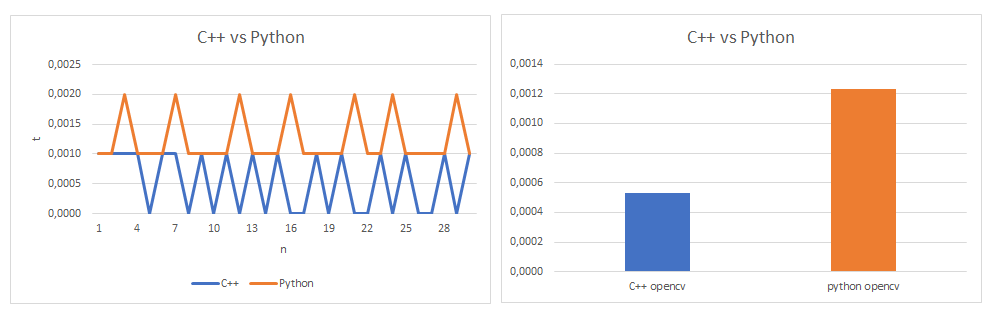
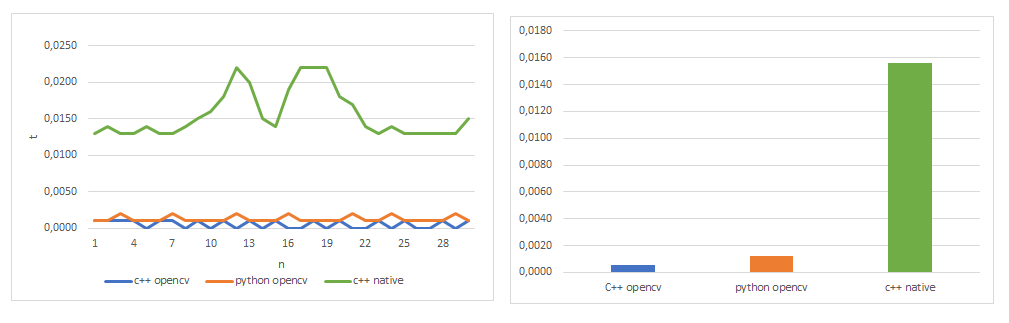
Add files via upload

diff --git a/c++_native.cpp b/c++_native.cpp
@@ -14,13 +14,30 @@ using namespace cv;
 using namespace std;
 
 
+void neighbors_update(Mat& array, int radius, int row_index, int column_index){
+
+    Vec3b pixelColor(255, 255, 255);
+
+    for (int j = column_index - radius; j < column_index + 1 + radius; j++) {
+        for (int i = row_index - radius; i < row_index + 1 + radius; i++) {
+            if (i >= 0 && i < array.rows && j >= 0 and j < array.cols) {
+                array.at<uchar>(i, j) = 255;
+            }
+        }
+    }
+}
+
+
+
 int main()
 {
+
     unsigned int start;
     unsigned int end;
     vector <float> test;
     ofstream excel;
     bool flag = true;
+
 
     Mat img_gray;
     Mat img_bin;
@@ -29,14 +46,27 @@ int main()
     Mat img = imread("space.jpg");
     cvtColor(img, img_gray, COLOR_BGR2GRAY);
     threshold(img_gray, img_bin, 127, 255, THRESH_BINARY);
-    
+
+
+
+
+
+
     for (int i = 0; i < 30; i++) {
         start = clock();
-        dilate(img_bin, img_dilate, Mat());
+
+        img_dilate = img_bin.clone();
+                      
+        for (int x = 0; x < img_bin.rows; x++) {
+            for (int y = 0; y < img_bin.cols; y++) {
+                if (img_bin.at<uchar>(x, y)==255) {
+                    neighbors_update(img_dilate, 1, x, y);
+                }
+            }
+        }
         end = clock();
         test.push_back((float)(end - start) / 1000);
     }
-
 
 
     while (1){
@@ -59,7 +89,6 @@ int main()
     }
 
     destroyAllWindows();
-
 
     excel.open("test.xls", fstream::app);
 

diff --git a/README.md b/README.md
@@ -9,14 +9,14 @@
 Дилатация (морфологическое "расширение" или "наращивание") – это операция определения локального максимума по некоторой окрестности, которая задается структурообразующим элементом (ядро, kernel). Обычно дилатация применяется к бинарным изображениям, но есть версии, которые работают с изображениями в градациях серого. Ядро может иметь произвольную форму и размер [1, 2]. При этом в ядре выделяется единственная ведущая позиция (anchor), которая совмещается с текущим пикселем при вычислении свертки. 
 <figure>
   <p><img src="img_for_readme/anchor.png"></p>
-  <figcaption><i>Как меняется дилатация при разном параметре anchor в ядре 2х2</i></figcaption>
+  <figcaption align="center"><i>Как меняется дилатация при разном параметре anchor в ядре 2х2</i></figcaption>
 </figure><br><br>
 
 Во многих случаях в качестве ядра выбирается  квадрат или круг с ведущей позицией в центре, которая делит ядро на две симметричные части (однако, как было сказано выше, форма у ядра может быть абсолютно любой и необязательно симметричной). Квадрат 3 × 3, вероятно, является наиболее распространенным структурирующим элементом, используемым в операциях расширения. Более крупный структурирующий элемент производит более выраженный эффект расширения, хотя обычно очень похожие эффекты могут быть достигнуты повторными расширениями с использованием меньшего структурирующего элемента аналогичной формы. С более крупными структурными элементами довольно часто используют структурирующий элемент дисковой формы, а не квадратной. 
 
 <figure>
   <p><img src="img_for_readme/kernel.png"></p>
-  <figcaption><i>Дилатация с разным размером ядра в форме квадрата (3х3, 5х5, 7х7)</i></figcaption>
+  <figcaption align="center"><i>Дилатация с разным размером ядра в форме квадрата (3х3, 5х5, 7х7)</i></figcaption>
 </figure><br><br>
 
 Ядро можно рассматривать как шаблон или маску. Применение дилатации сводится к проходу шаблоном по всему изображению и применению оператора поиска локального максимума к интенсивностям пикселей изображения, которые, в дальнейшем, накрываются шаблоном. Основной эффект дилатаии на бинарном изображении заключается в постепенном увеличении границ областей пикселей переднего плана ( т. е., как правило, белых пикселей). Таким образом, области пикселей переднего плана увеличиваются в размерах, а отверстия в этих областях становятся меньше. Такая операция вызывает рост светлых областей на изображении и тем самым способствует объединению областей изображения, которые были разделены шумом и пр. Есть много специальных применений для дилатации. Например, его можно использовать для заполнения небольших ложных дыр ( "перцового шума" ) в изображениях. 
@@ -36,8 +36,8 @@ img = cv2.imread('space.jpg')
 ```
 В качестве изображения используем снимок космоса со спутника.
 <figure>
-  <p><img src="img_for_readme/original.png"></p>
-  <figcaption><i>Исходное изображение</i></figcaption>
+  <p align="center"><img src="img_for_readme/original.png"></p>
+  <figcaption align="center"><i>Исходное изображение</i></figcaption>
 </figure><br><br>
 
 <b>Преобразование изображения в градиции серого</b>
@@ -45,8 +45,8 @@ img = cv2.imread('space.jpg')
 img_gray = cv2.cvtColor(img, cv2.COLOR_BGR2GRAY)
 ```
 <figure>
-  <p><img src="img_for_readme/gray.png"></p>
-  <figcaption><i>Изображение в градациях серого</i></figcaption>
+  <p align="center"><img src="img_for_readme/gray.png"></p>
+  <figcaption align="center"><i>Изображение в градациях серого</i></figcaption>
 </figure><br><br>
 
 <b>Бинаризация изображения</b> 
@@ -54,8 +54,8 @@ img_gray = cv2.cvtColor(img, cv2.COLOR_BGR2GRAY)
  ret,img_bin = cv2.threshold(img_gray,127,255,cv2.THRESH_BINARY)
 ```
 <figure>
-  <p><img src="img_for_readme/binarization.png"></p>
-  <figcaption><i>Изображение после бинаризации</i></figcaption>
+  <p align="center"><img src="img_for_readme/binarization.png"></p>
+  <figcaption align="center"><i>Изображение после бинаризации</i></figcaption>
 </figure><br><br>
 
 <b>Дилатация изображения</b>
@@ -64,8 +64,8 @@ img_dilation3 = cv2.dilate(img_bin, np.ones((3, 3), np.uint8), iterations=1)
 ```
 Для дилатации используем ядро в виде квадрата размером 3х3, количество итераций – 1.
 <figure>
-  <p><img src="img_for_readme/dilatation.png"></p>
-  <figcaption><i>Изображение после дилатации</i></figcaption>
+  <p align="center"><img src="img_for_readme/dilatation.png"></p>
+  <figcaption align="center"><i>Изображение после дилатации</i></figcaption>
 </figure><br><br>
 
 <b>Вывод изобржения</b> 
@@ -75,33 +75,33 @@ cv2.imshow('Dilatation kernel = (3,3)', cv2.resize (img_dilation3, dsize = (300,
  Выводим на экран изображение с помощью встроенной функции opencv, дополнительно уменьшаем изобжение.
 
 <figure>
-  <p><img src="img_for_readme/output.png"></p>
-  <figcaption><i>Вывод обработанного изображения</i></figcaption>
+  <p align="center"><img src="img_for_readme/output.png"></p>
+  <figcaption align="center"><i>Вывод обработанного изображения</i></figcaption>
 </figure><br><br>
 
 <h4>Результаты работы и сравнения системы</h4>
 
-Проведём дилатацию в трёх вариантах: Python openCV, Python native, C++ openCV. В каждом из вариантов мы проведём по 30 тестов и выясним среднее время выполнения дилатации.
-Ниже приведены графики отношения времени к номеру тестоа для каждого из вариантов.
+Проведём дилатацию в трёх вариантах: Python openCV, Python native, C++ openCV, C++ native. В каждом из вариантов мы проведём по 30 тестов и выясним среднее время выполнения дилатации.
+Ниже приведены графики отношения времени к номеру теста для каждого из вариантов.
 
 <figure>
-  <p><img src="img_for_readme/test graph.png"></p>
-  <figcaption><i>Время на выполнение дилатации</i></figcaption>
+  <p align="center"><img src="img_for_readme/test graph.png"></p>
+  <figcaption align="center"><i>Время на выполнение дилатации</i></figcaption>
 </figure><br><br>
 
 <figure>
-  <p><img src="img_for_readme/test gisto.png"></p>
-  <figcaption><i>Среднее время потраченное на выполнение дилатации</i></figcaption>
+  <p align="center"><img src="img_for_readme/test gisto.png"></p>
+  <figcaption align="center"><i>Среднее время потраченное на выполнение дилатации</i></figcaption>
 </figure><br><br>
 
-Видно, что код написанный на нативном Python заметно уступает коду, использущему библиотеку openCV. Следовательно, далее рассматривать нативный Python не имеет смысла. 
-Сравним быстродействие библиотеки openCV на разных языках.
+Видно, что код написанный на нативном Python заметно уступает остальным вариантам. Следовательно, далее рассматривать нативный Python не имеет смысла. 
+Сравним быстродействие библиотеки openCV на разных языках, а также нативного C++.
 <figure>
-  <p><img src="img_for_readme/test end.png"></p>
-  <figcaption><i>Сравнения быстродействия Python и C++</i></figcaption>
+  <p align="center"><img src="img_for_readme/test end.png"></p>
+  <figcaption align="center"><i>Сравнения быстродействия</i></figcaption>
 </figure><br><br>
 
-На графиках видно, что язык C++ производит дилатацию быстрее чем Python.
+На графиках видно, что самый эффективный вариант это язык С++ с использованием библиотеки opencv.
 
 <h4>Выводы по работе</h4>
 
